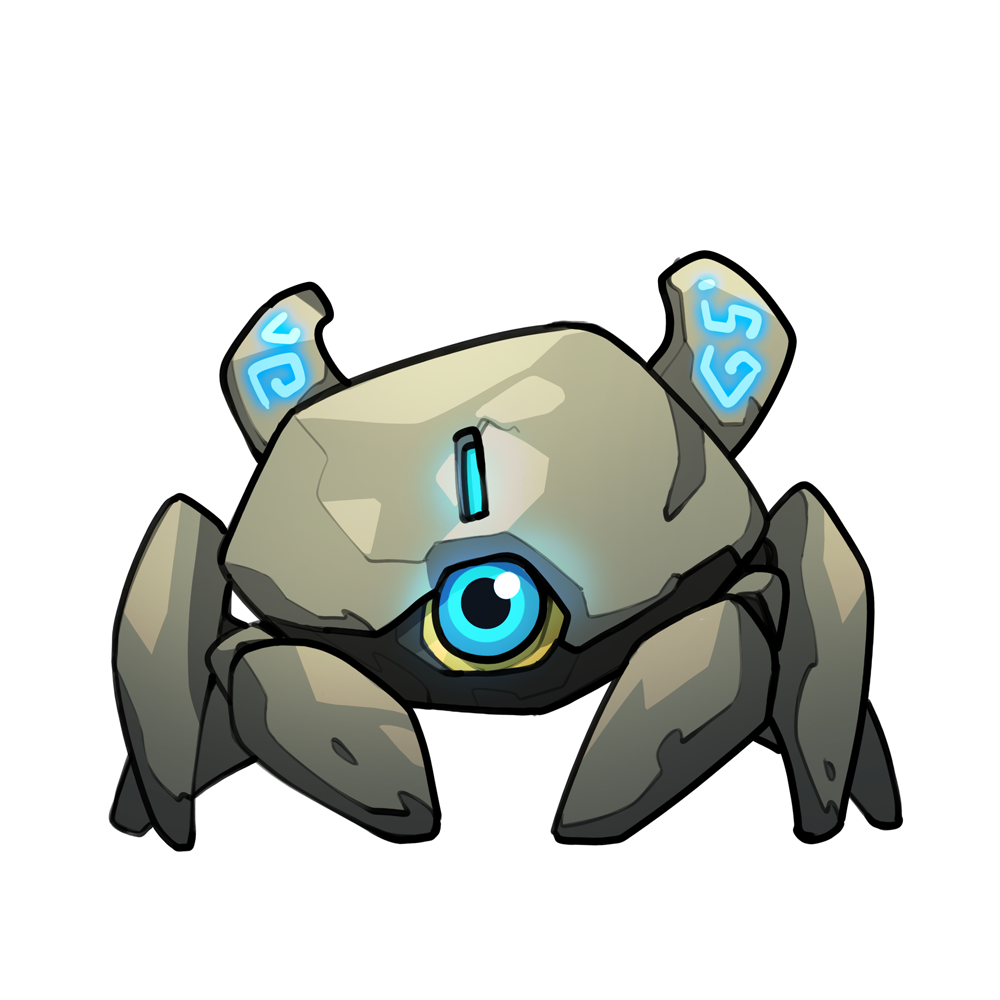
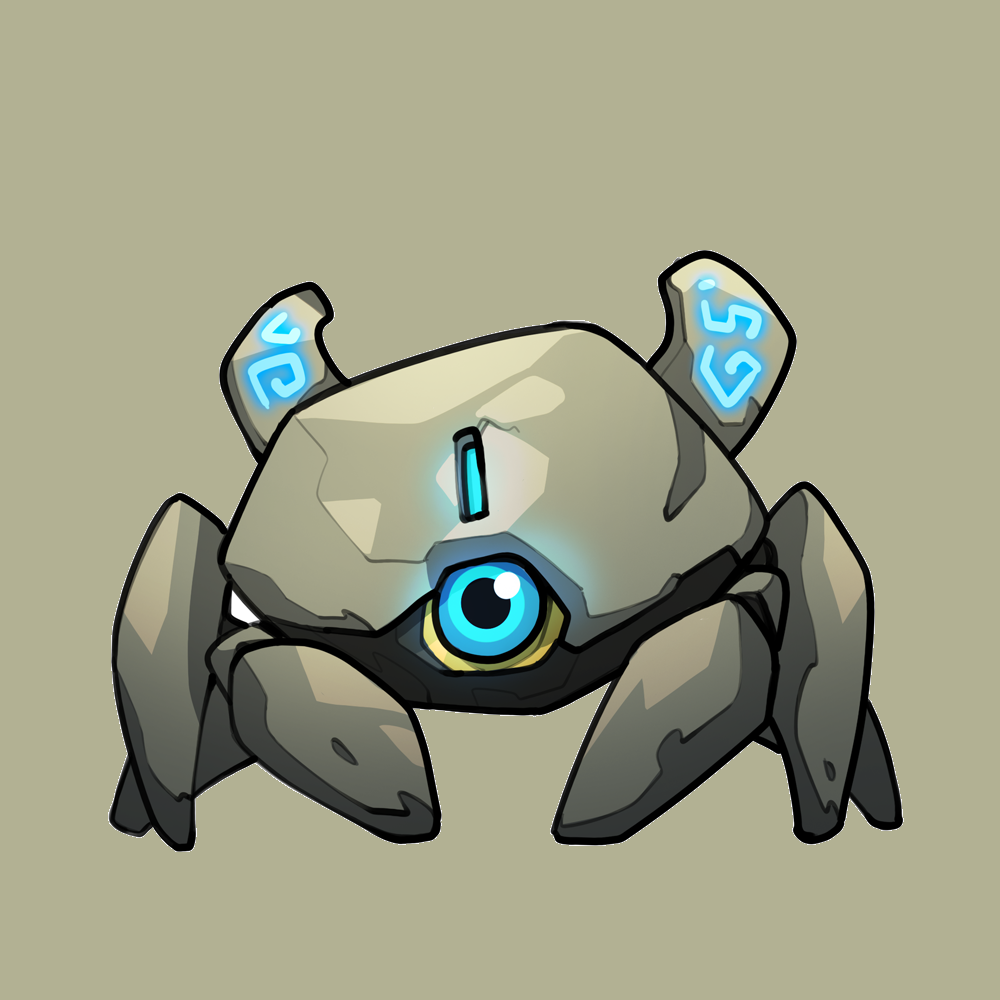
Show cooldown ability name, fix model offsets/rotations, fix multiplayer start
- Display actual ability name on cooldown badge in player cards
- Add offsetX/offsetY support for 3D models, fix water elemental positioning
- Normalize rotation angles to prevent spin issues after teleport (Ocean Surf)
- Queue WebRTC messages before channel opens to fix guest missing game-start
- Update menu styling (centered lower, earth glow, background color)
- Update meeple textures

diff --git a/src/ui/ThreeOverlay.ts b/src/ui/ThreeOverlay.ts
@@ -19,12 +19,14 @@ interface ModelDef {
   preRotateX?: number;  // X-axis pre-rotation to fix authoring orientation
   preRotateY?: number;  // Y-axis pre-rotation to fix authoring orientation
   facingOffset?: number; // Z-rotation offset for movement facing direction (default 0)
+  offsetX?: number;     // X offset after centering (fix off-center models)
+  offsetY?: number;     // Y offset after centering (fix off-center models)
 }
 
 const MODEL_CONFIG: Record<string, ModelDef> = {
   earth:        { glb: 'meeples/elemental_earth.glb',    texture: 'meeples/earth.png' },
   fire:         { glb: 'meeples/elemental_fire.glb',     texture: 'meeples/fire_meeple.png' },
-  water:        { glb: 'meeples/elemental_water.glb',    texture: 'meeples/water_meeple.png', preRotateX: Math.PI / 2 },
+  water:        { glb: 'meeples/elemental_water.glb',    texture: 'meeples/water_meeple.png', preRotateX: Math.PI / 2, offsetY: 10 },
   stone_minion: { glb: 'meeples/meeple_stoneminion.glb', texture: 'meeples/stone.png', height: 60, preRotateX: Math.PI / 2 },
 };
 
@@ -135,7 +137,7 @@ export class ThreeOverlay {
     });
   }
 
-  private scaleAndPivotModel(model: THREE.Group, targetHeight: number, tilt = -1.15, preRotateX = 0, preRotateY = 0): THREE.Group {
+  private scaleAndPivotModel(model: THREE.Group, targetHeight: number, tilt = -1.15, preRotateX = 0, preRotateY = 0, offsetX = 0, offsetY = 0): THREE.Group {
     // Apply pre-rotation to fix authoring orientation before anything else
     if (preRotateX !== 0) model.rotation.x = preRotateX;
     if (preRotateY !== 0) model.rotation.y = preRotateY;
@@ -154,7 +156,7 @@ export class ThreeOverlay {
     const boxScaled = new THREE.Box3().setFromObject(model);
     const scaledCenter = new THREE.Vector3();
     boxScaled.getCenter(scaledCenter);
-    model.position.set(-scaledCenter.x, -scaledCenter.y, -scaledCenter.z);
+    model.position.set(-scaledCenter.x + offsetX, -scaledCenter.y + offsetY, -scaledCenter.z);
 
     innerGroup.add(model);
     innerGroup.rotation.x = tilt;
@@ -170,9 +172,11 @@ export class ThreeOverlay {
     const tilt = def.tilt ?? -1.15;
     const preRotateX = def.preRotateX ?? 0;
     const preRotateY = def.preRotateY ?? 0;
+    const offsetX = def.offsetX ?? 0;
+    const offsetY = def.offsetY ?? 0;
 
     const onModelLoaded = (model: THREE.Group) => {
-      const pivot = this.scaleAndPivotModel(model, height, tilt, preRotateX, preRotateY);
+      const pivot = this.scaleAndPivotModel(model, height, tilt, preRotateX, preRotateY, offsetX, offsetY);
       this.scene.add(pivot);
       entry.pivot = pivot;
       if (entry.pendingHexId !== null) {
@@ -293,12 +297,18 @@ export class ThreeOverlay {
 
   /** Animate a Z-rotation on a pivot (spin on the board plane) */
   private animateRotation(pivot: THREE.Group, from: number, to: number, ms: number): Promise<void> {
+    // Normalize to shortest rotation path
+    let delta = to - from;
+    delta = ((delta + Math.PI) % (2 * Math.PI)) - Math.PI;
+    if (delta < -Math.PI) delta += 2 * Math.PI;
+    const normalizedTo = from + delta;
+
     return new Promise(resolve => {
       const startTime = performance.now();
       const tick = () => {
         const t = Math.min((performance.now() - startTime) / ms, 1);
         const ease = t < 0.5 ? 2 * t * t : 1 - Math.pow(-2 * t + 2, 2) / 2;
-        pivot.rotation.z = from + (to - from) * ease;
+        pivot.rotation.z = from + (normalizedTo - from) * ease;
         if (t < 1) requestAnimationFrame(tick);
         else resolve();
       };
@@ -331,6 +341,7 @@ export class ThreeOverlay {
         if (step >= positions.length) {
           // Turn back to face camera
           await this.animateRotation(pivot, pivot.rotation.z, 0, TURN_MS);
+          pivot.rotation.z = 0; // Reset to exact 0 to prevent drift
           resolve();
           return;
         }

diff --git a/src/network/PeerConnection.ts b/src/network/PeerConnection.ts
@@ -16,6 +16,7 @@ export class PeerConnection {
   private onConnectedCallback: (() => void) | null = null;
   private onDisconnectedCallback: (() => void) | null = null;
   private _connected = false;
+  private sendQueue: string[] = [];
 
   constructor(
     private signaling: SignalingClient,
@@ -94,9 +95,20 @@ export class PeerConnection {
   }
 
   send(data: any) {
+    const msg = JSON.stringify(data);
     if (this.channel && this.channel.readyState === 'open') {
-      this.channel.send(JSON.stringify(data));
+      this.channel.send(msg);
+    } else {
+      this.sendQueue.push(msg);
     }
+  }
+
+  private flushQueue() {
+    if (!this.channel || this.channel.readyState !== 'open') return;
+    for (const msg of this.sendQueue) {
+      this.channel.send(msg);
+    }
+    this.sendQueue = [];
   }
 
   close() {
@@ -110,6 +122,7 @@ export class PeerConnection {
     this.channel = channel;
     channel.onopen = () => {
       this._connected = true;
+      this.flushQueue();
       this.onConnectedCallback?.();
     };
     channel.onclose = () => {

diff --git a/src/ui/PlayerPanel.ts b/src/ui/PlayerPanel.ts
@@ -83,7 +83,7 @@ export class PlayerPanel {
             <div class="action-markers">
               <button class="action-info-btn" data-player="${type}">
                 <span class="material-icons">info_outline</span>
-                Actions${player.actionMarker ? ' <span class="cooldown-badge">1 on cooldown</span>' : ''}
+                Actions${player.actionMarker ? ` <span class="cooldown-badge">⏳ ${getActionsForElemental(type).find(a => a.id === player.actionMarker)?.name ?? player.actionMarker}</span>` : ''}
               </button>
             </div>
           </div>
